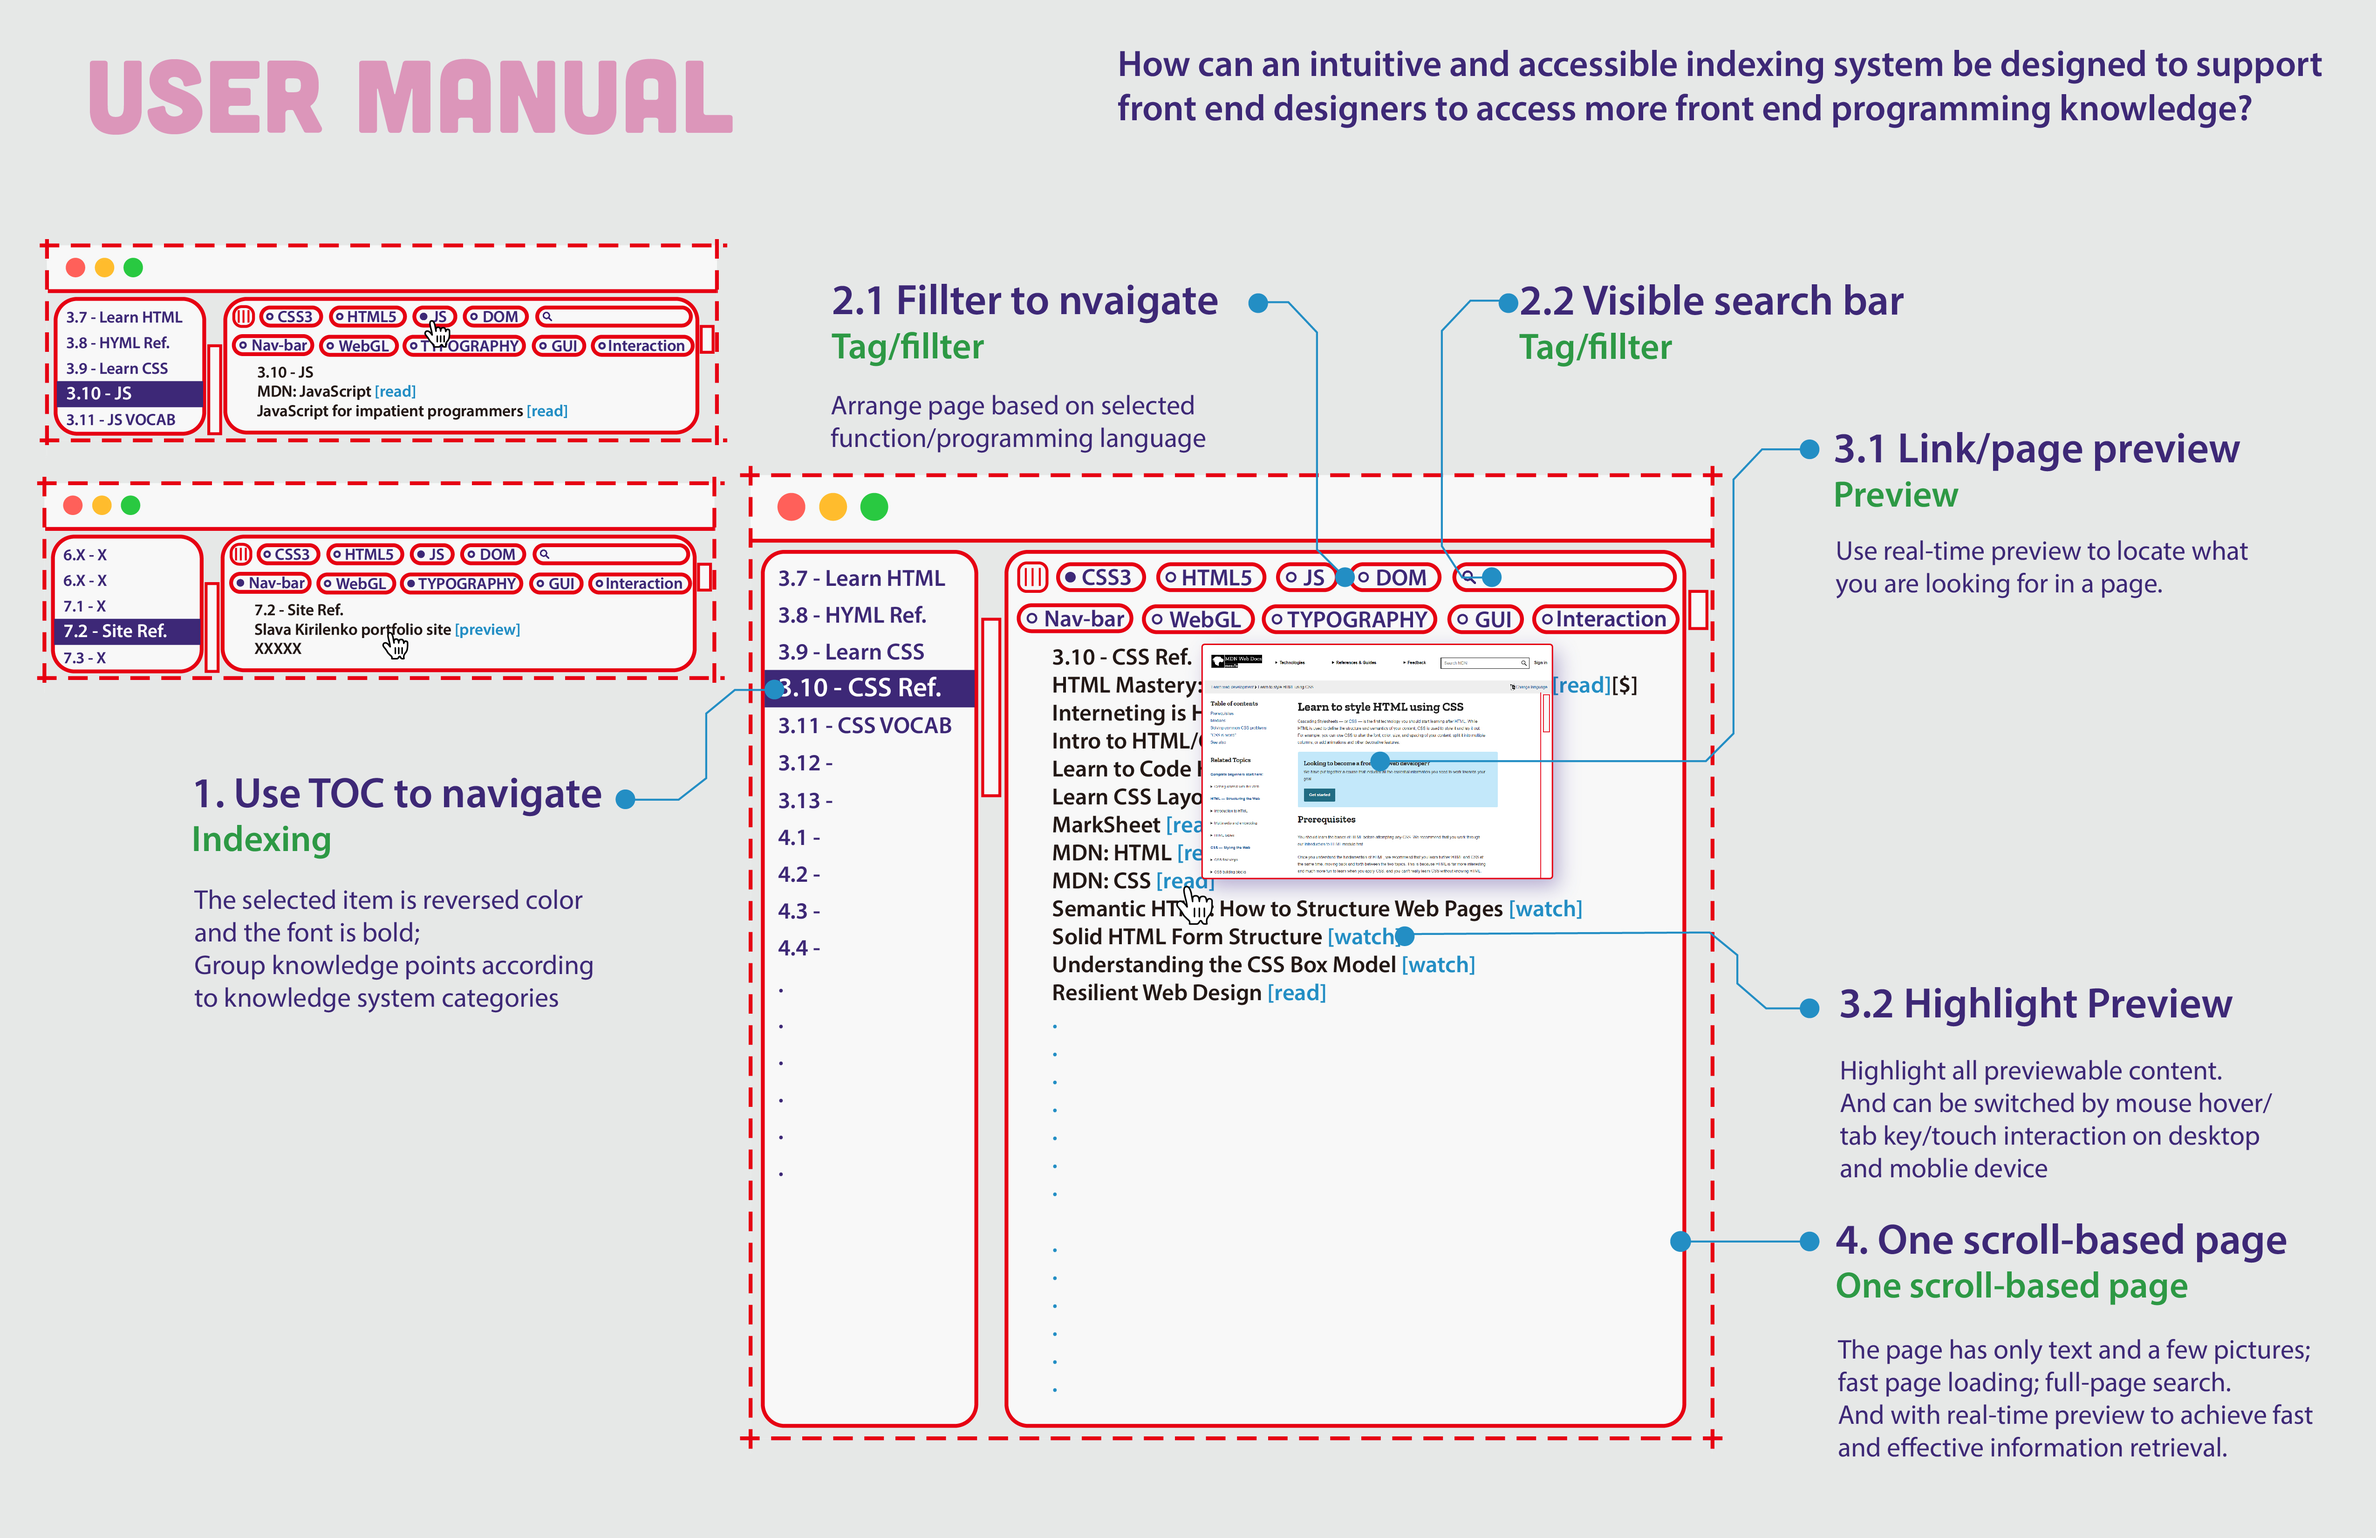
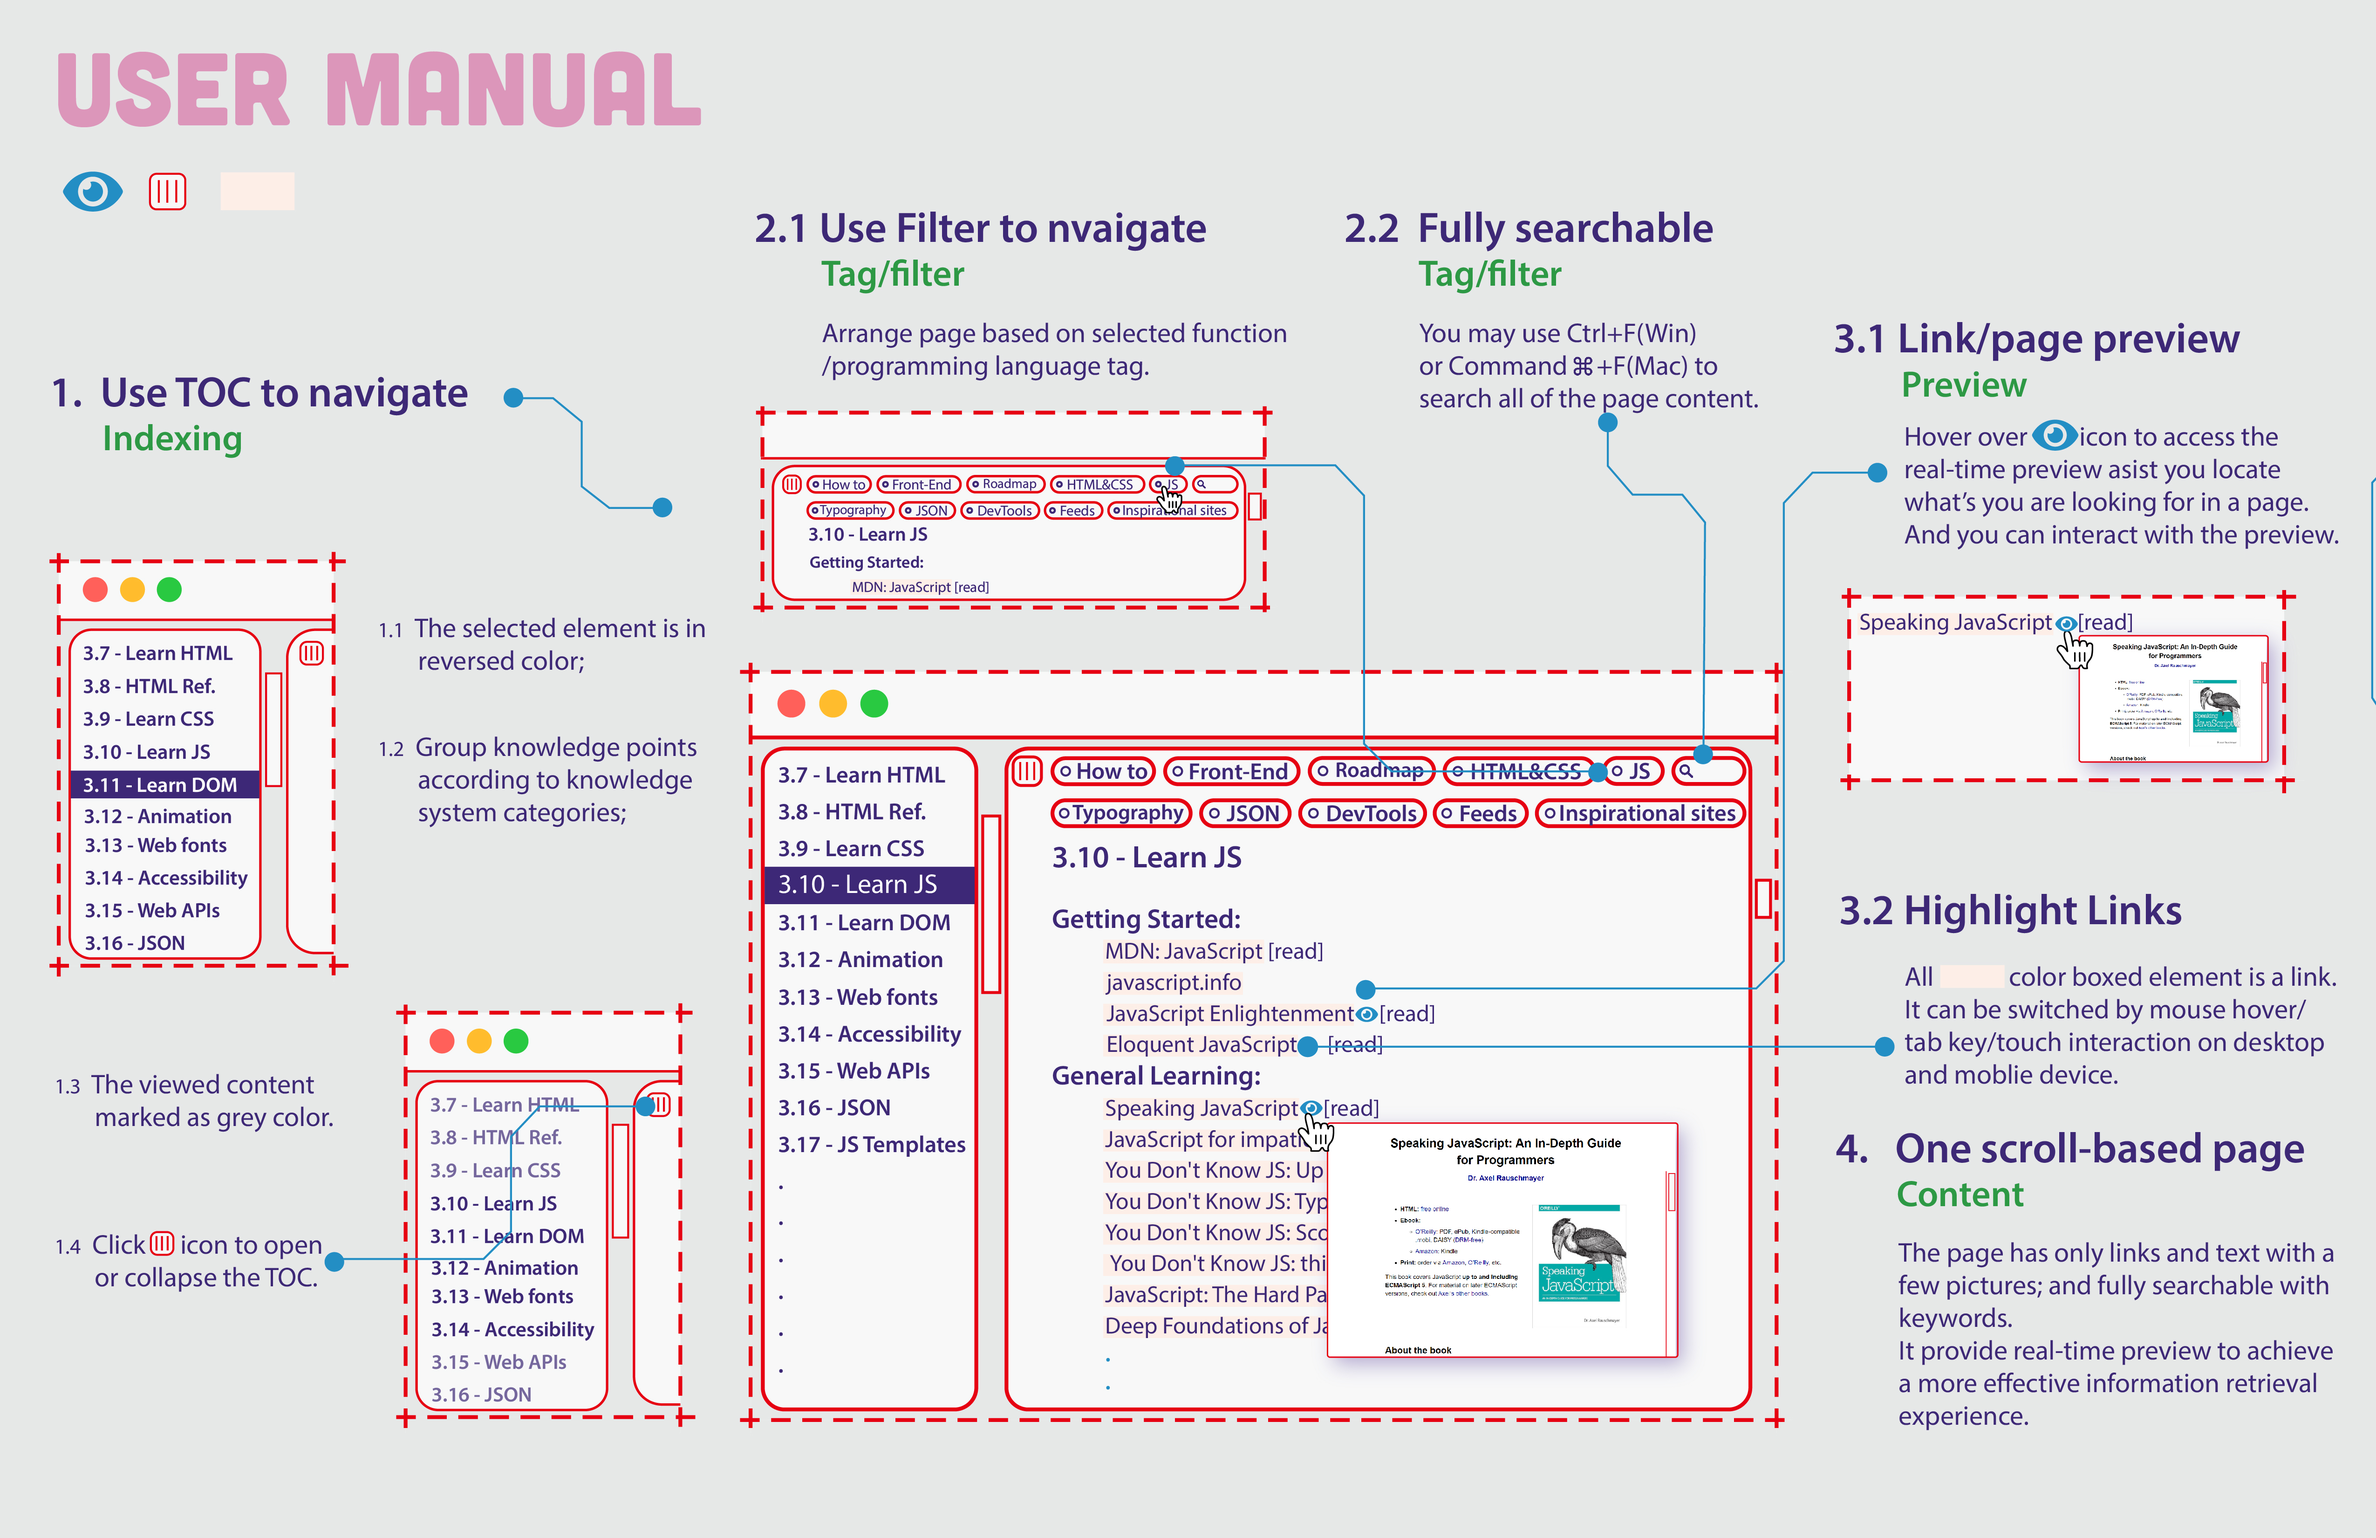
Add files via upload

diff --git a/index.html b/index.html
@@ -125,22 +125,25 @@
       
         <h3>User manual</h3>
         <p><strong>1. Use TOC to navigate Indexing</strong>
-          <br>The selected item is reversed color
-          and the font is bold;
-          Group knowledge points according 
-          to knowledge system categories.<br>The content you already viewed marked as grey color.<br>
-          <strong>2.1 Fillter to nvaigate-Tag/fillter</strong><br>Arrange page based on selected
-          function/programming language<br><strong>2.2 Visible search bar-Tag/fillter</strong><br>Use Ctrl+F(Win) or Command⌘+F(Mac) 
-          to search all of the page content<br><strong>3.1 Real time link/page preview</strong>
-          Preview <br>Use real-time preview to locate what 
-          you are looking for in a page.<br><strong>3.2 Highlight Preview</strong><br>Highlight all previewable content.  
-          And can be switched by mouse hover/
-          tab key/touch interaction on desktop 
-          and moblie device<br><strong>4. One scroll-based page</strong>
-          <br>The page has only text and a few pictures; 
-          fast page  loading; full-page search. 
-          And with real-time preview to achieve fast
-          and effective information retrieval.</p>
+          <br>1.1  The selected element is in reversed color; <br>
+          1.2  Group knowledge points according to knowledge system categories;<br>
+          1.3  The viewed contentmarked as grey color.<br>
+          1.4  Click ||| icon to open or collapse the TOC.
+   <br>
+          <strong>2.1 Use filter to nvaigate</strong> - Tag/fillter<br>Arrange page based on selected
+          function/programming language tag.<br><strong>2.2 Fully searchable</strong> - Tag/filter<br>Use Ctrl+F(Win) or Command⌘+F(Mac) 
+          to search all of the page content<br><strong>3.1 Link/page preview</strong>- Preview <br>
+          Hover over <i class="fas fa-eye"></i> icon to access the real-time preview asist you locate what’s you are looking for in a page.<br> 
+          And you can interact with the preview.<br>
+          <strong>3.2 Highlight links</strong><br>
+          All color boxed element is a link. It can be switched by mouse hover/tab key/touch interaction on desktop and moblie device.<br>
+          <strong>4. One scroll-based page</strong>
+          <br>The page has only links and text with a 
+          few pictures; and fully searchable with 
+          keywords. <br>
+          It provide real-time preview to achieve 
+          a more effective information retrieval 
+          experience.</p>
           <p><img alt="" src="./assets/images/user-manual.jpg" title="user-manual"> 
 
         <div id="fe"></div>
